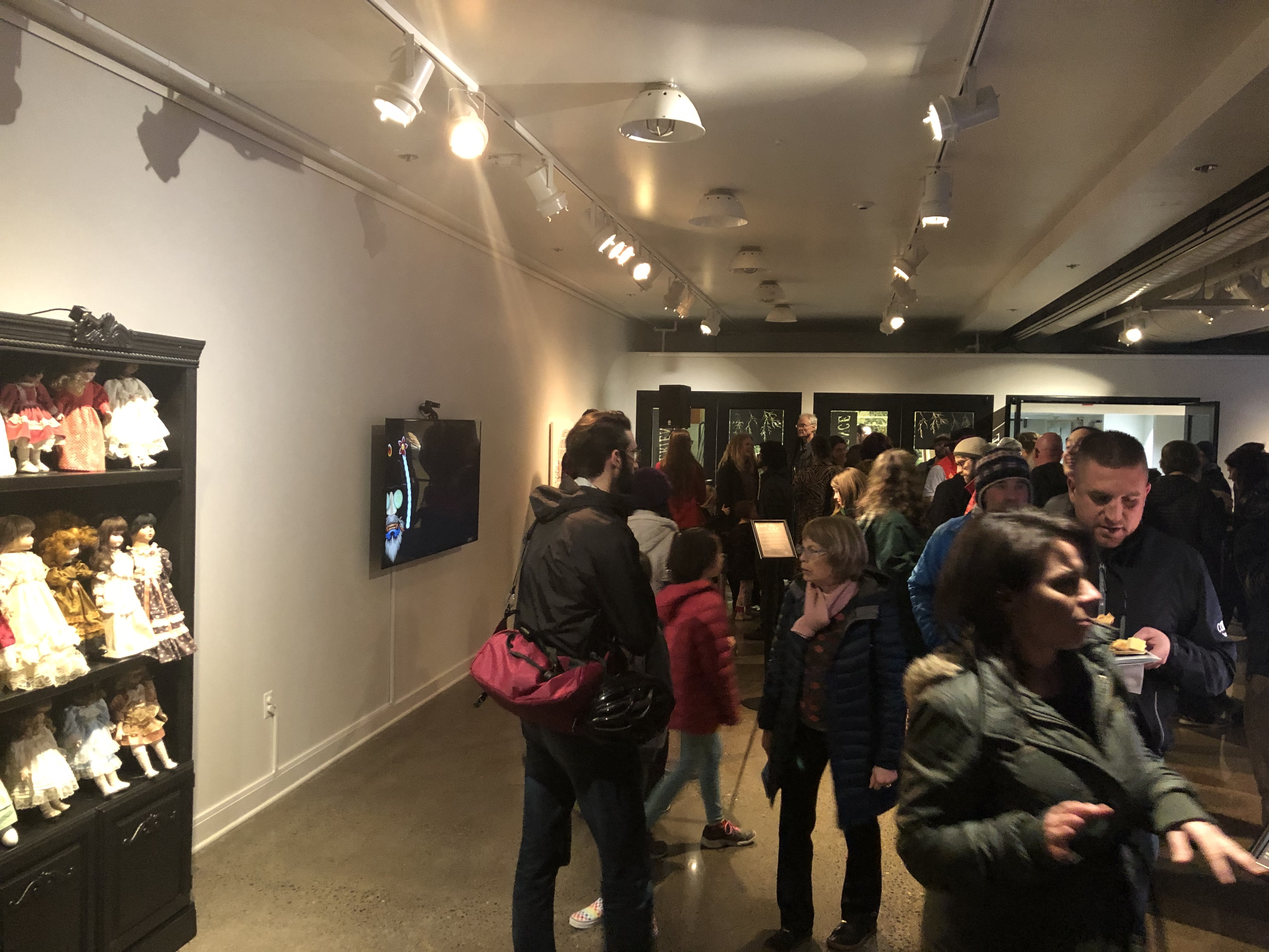
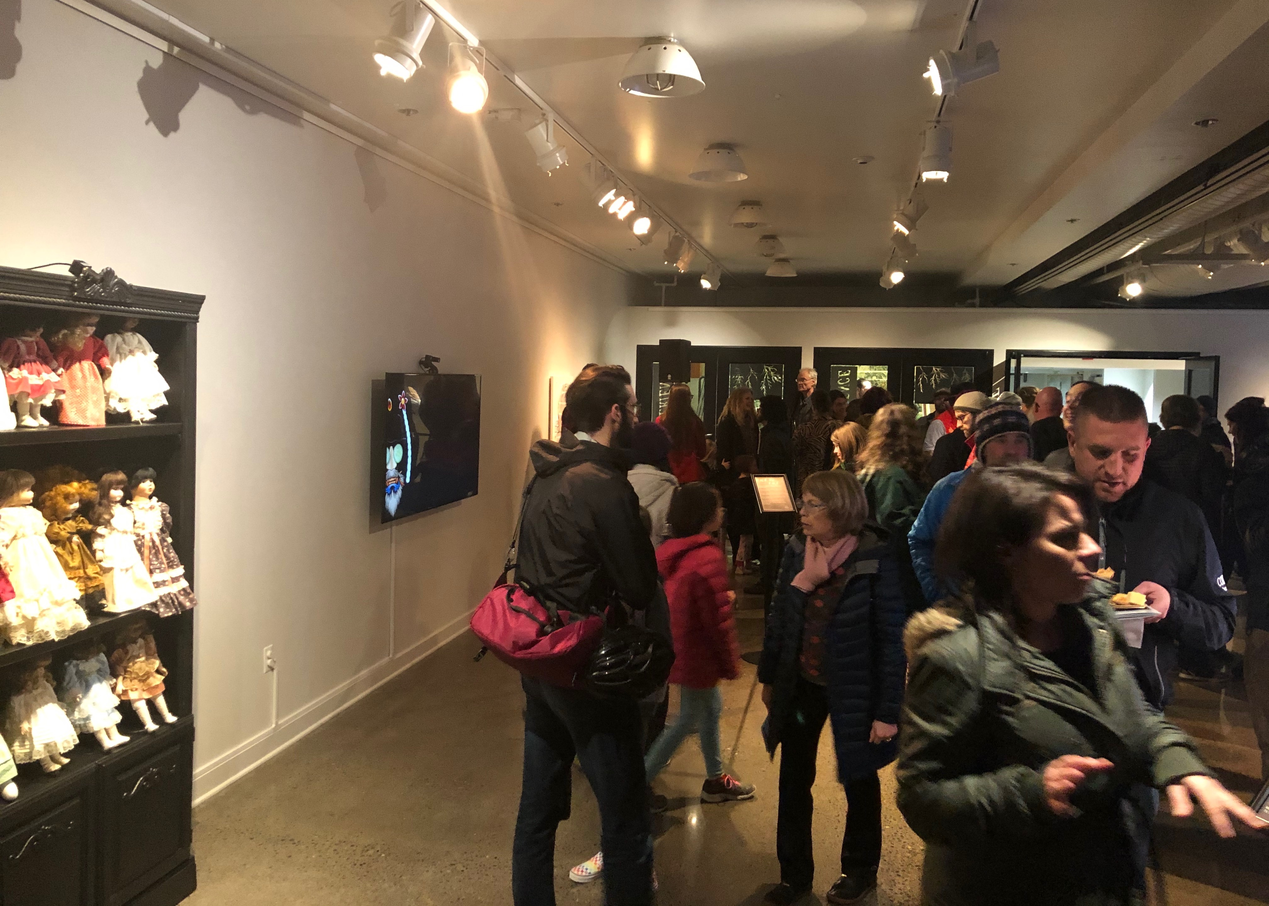
Editing images to all be same dimensions

diff --git a/src/pages/InteractiveArt.js b/src/pages/InteractiveArt.js
@@ -2,29 +2,29 @@ import React, { useEffect } from "react";
 import M from "materialize-css";
 
 // Importing images
-import MovingDolls from "../images/movingDolls.jpg";
+import MovingDolls from "../images/movingDolls.jpeg";
 import MovingDollsCabinet from "../images/movingDollsCabinet.jpeg";
 import MovingDollsGallery from "../images/movingDollsGallery.jpeg";
-import Dollhouse from "../images/dollhouse.jpg";
+import Dollhouse from "../images/dollhouse.jpeg";
 import DollhouseDark from "../images/dollhouseDark.jpeg";
 import DollhouseBack from "../images/dollhouseBack.jpeg";
-import DollhouseDesert from "../images/dollhouseDesert.png";
+import DollhouseDesert from "../images/dollhouseDesert.jpeg";
 import DollhouseHeart from "../images/dollhouseHeart.jpeg";
-import DollhousePig from "../images/dollhousePig.png";
-import DollhouseTable from "../images/dollhouseTable.png";
-import SonicSteps from "../images/sonicSteps.JPG";
-import SonicKids from "../images/sonicKids.png";
-import SonicTallKid from "../images/sonicTallKid.JPG";
-import SonicBuild from "../images/sonicBuild.png";
-import SonicBuild2 from "../images/sonicBuild2.JPG";
-import Particles from "../images/particlesOfTheVoice.png";
-import ParticleBoxes from "../images/particlesBoxes.png";
-import ParticlesCircuit from "../images/particlesCircuit.png";
-import Binaries from "../images/binaries.png";
-import BinariesClose from "../images/binariesClose.JPG";
-import BinariesMakey from "../images/binariesMakey.png";
-import BinariesWall from "../images/binariesWall.png";
-import BinariesWiring from "../images/binariesWiring.png";
+import DollhousePig from "../images/dollhousePig.jpeg";
+import DollhouseTable from "../images/dollhouseTable.jpeg";
+import SonicSteps from "../images/sonicSteps.jpeg";
+import SonicKids from "../images/sonicKids.jpeg";
+import SonicTallKid from "../images/sonicTallKid.jpeg";
+import SonicBuild from "../images/sonicBuild.jpeg";
+import SonicBuild2 from "../images/sonicBuild2.jpeg";
+import Particles from "../images/particlesOfTheVoice.jpeg";
+import ParticleBoxes from "../images/particlesBoxes.jpeg";
+import ParticlesCircuit from "../images/particlesCircuit.jpeg";
+import Binaries from "../images/binaries.jpeg";
+import BinariesClose from "../images/binariesClose.jpeg";
+import BinariesMakey from "../images/binariesMakey.jpeg";
+import BinariesWall from "../images/binariesWall.jpeg";
+import BinariesWiring from "../images/binariesWiring.jpeg";
 
 // Importing components
 import Project from "../components/Project";

diff --git a/src/pages/Home.js b/src/pages/Home.js
@@ -10,25 +10,22 @@ import Dollhouse1 from "../images/dollhouse1.jpg";
 import Me from "../images/me.png";
 import Dollhouse2 from "../images/dollhouse2.jpg";
 import Alertify from "../images/alertify.jpeg";
-import AlertifyLogin from "../images/alertifyLogin.png";
-import AlertifySignIn from "../images/alertifySignIn.png";
-import AlertifySignUp from "../images/alertifySignUp.png";
-import AlertifyTracker from "../images/alertifyTracker.png";
+import AlertifyLogin from "../images/alertifyLogin.jpeg";
+import AlertifySignIn from "../images/alertifySignIn.jpeg";
+import AlertifySignUp from "../images/alertifySignUp.jpeg";
+import AlertifyTracker from "../images/alertifyTracker.jpeg";
 import DollhouseBack from "../images/dollhouseBack.jpeg";
 import Dollhouse3 from "../images/dollhouse3.jpg";
-import Dollhouse from "../images/dollhouse.jpg";
+import Dollhouse from "../images/dollhouse.jpeg";
 import DollhouseDark from "../images/dollhouseDark.jpeg";
-import DollhouseDesert from "../images/dollhouseDesert.png";
+import DollhouseDesert from "../images/dollhouseDesert.jpeg";
 import DollhouseHeart from "../images/dollhouseHeart.jpeg";
-import DollhousePig from "../images/dollhousePig.png";
-import DollhouseTable from "../images/dollhouseTable.png";
+import DollhousePig from "../images/dollhousePig.jpeg";
+import DollhouseTable from "../images/dollhouseTable.jpeg";
 
 //Import components
 import Header from "../components/Header";
 import Project from "../components/Project";
-
-//Import pages
-import WebDev from "./WebDev";
 
 //Image Arrays
 const alertifyImages = [Alertify, AlertifyLogin, AlertifySignIn, AlertifySignUp, AlertifyTracker];

diff --git a/src/pages/WebDev.js b/src/pages/WebDev.js
@@ -2,18 +2,18 @@ import React, { useEffect } from "react";
 import M from "materialize-css";
 
 // Importing images
-import Alertify from "../images/alertify.png";
-import AlertifyLogin from "../images/alertifyLogin.png";
-import AlertifySignIn from "../images/alertifySignIn.png";
-import AlertifySignUp from "../images/alertifySignUp.png";
-import AlertifyTracker from "../images/alertifyTracker.png";
-import Burger from "../images/burgerApp.png";
-import JobSearch from "../images/jobSearch.png";
-import JobSearchContact from "../images/jobSearchContact.png";
-import JobSearchHome from "../images/jobSearchHome.png";
-import EmployeeSummary from "../images/employeeSummary.png";
-import WeatherDashboard from "../images/weatherDashboard.png";
-import EmployeeDirectory from "../images/employeeDirectory.png";
+import Alertify from "../images/alertify.jpeg";
+import AlertifyLogin from "../images/alertifyLogin.jpeg";
+import AlertifySignIn from "../images/alertifySignIn.jpeg";
+import AlertifySignUp from "../images/alertifySignUp.jpeg";
+import AlertifyTracker from "../images/alertifyTracker.jpeg";
+import Burger from "../images/burgerApp.jpeg";
+import JobSearch from "../images/jobSearch.jpeg";
+import JobSearchContact from "../images/jobSearchContact.jpeg";
+import JobSearchHome from "../images/jobSearchHome.jpeg";
+import EmployeeSummary from "../images/employeeSummary.jpeg";
+import WeatherDashboard from "../images/weatherDashboard.jpeg";
+import EmployeeDirectory from "../images/employeeDirectory.jpeg";
 
 // Importing components
 import Project from "../components/Project";

diff --git a/src/pages/pageStyle.css b/src/pages/pageStyle.css
@@ -30,6 +30,11 @@
   }
 }
 
+/* .col-sm12-m6-l6 {
+  display: flex;
+  justify-content: center;
+} */
+
 /* Styling for contact page */
 #github {
   max-width: 100%;
